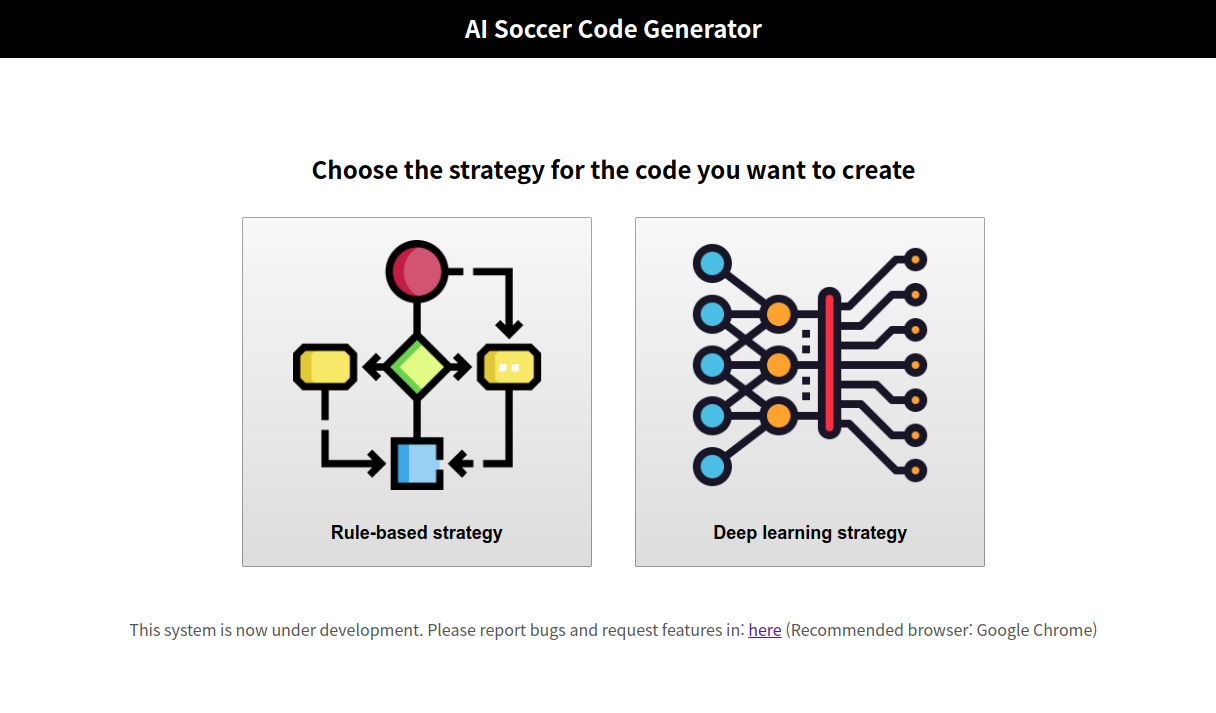
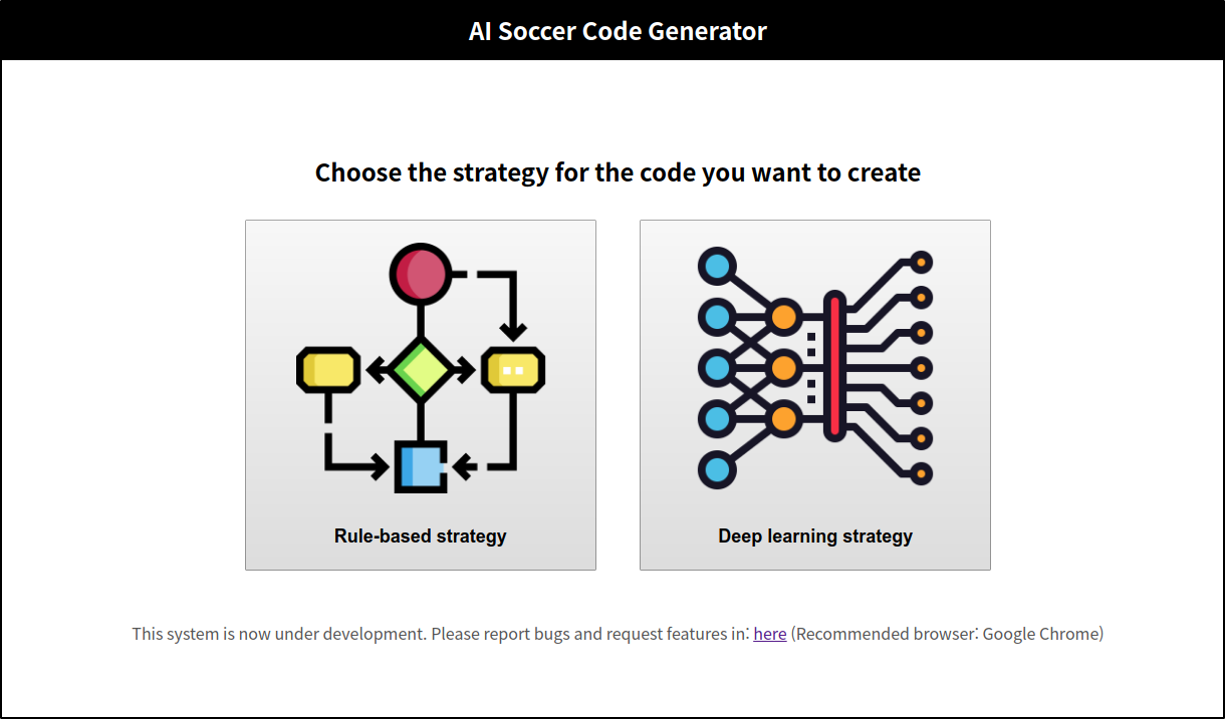
align images

diff --git a/template-readmes/README.html b/template-readmes/README.html
@@ -12,33 +12,51 @@
                 AI Soccer is a 5:5 robot soccer game where each participant develops an algorithm with the objective of defeating the opponent's algorithm by controlling 5 robots in the team. <br>
                 The player program can control the robot by determining the wheel velocities and kick/jump mechanism actions to be performed based on the robots coordinates and orientation, the ball coordinates, or/and the game image.
             </p>
+            <figure style="text-align: center; margin-left: auto; margin-right:auto; margin-top: 15px; margin-bottom: 15px; display:block;">
+                <img src="../img/field_information_3d.png" width=40%; height:auto;>
+                <!-- <figcaption><b>Fig 1. AI Soccer</b></figcaption> -->
+            </figure>
             <p>
                 AI Soccer Code Generator is web-based, visual programming editor for AI Soccer based on Google Blockly. By using this tool, users can participate in AI Soccer without deep background of programming and deep learning. <br>
                 AI Soccer Code Generator helps you make your own strategy with rule-based system and deep learning system. You may choose one of the system that you want.
             </p>
-            <img src="images/mainpage.png" alt="AI Soccer Code Generator main page">
+            <figure style="text-align: center; margin-left: auto; margin-right:auto; margin-top: 15px; margin-bottom: 15px; display:block;">
+                <img src="images/mainpage.png" width=40%; height:auto;>
+                <!-- <figcaption><b>Fig 2. AI Soccer Code Generator</b></figcaption> -->
+            </figure>
         <hr>
         <h2>Rule-based System</h2>
             <p>
                 For rule-based system, you need to define proper actions of 5 robots. You will use the block-coding system instead of writing the python code directly. The basic template can be seen next.<br>
-                <img src="images/rulebasedtemplate.png" alt="Rule based basic template"> <br>
+                <figure style="text-align: center; margin-left: auto; margin-right:auto; margin-top: 15px; margin-bottom: 15px; display:block;">
+                    <img src="images/rulebasedtemplate.png" alt="Rule based basic template" width=50%; height:auto;> <br>
+                    <!-- <figcaption><b>Fig 3. Template for rule-based system</b></figcaption> -->
+                </figure>
                 Now the default code for each robot is to define actions for that robot based on the position of the ball. There are many categories in the left side. Below is the description for each category. <br>
                 <p>
                     <b>Environment indices</b> category contains indices of game status, and ball. <br>
                 </p>
-                <img src="images/environmentindices.png" alt="Environment indices"> <br>
+                <figure style="text-align: center; margin-left: auto; margin-right:auto; margin-top: 15px; margin-bottom: 15px; display:block;">
+                    <img src="images/environmentindices.png" alt="Environment indices">
+                </figure>
                 <p>
                     <b>Environment constants</b> category contains the variables that does not change over time. This includes field, goal, penalty area, goal area, robot size, and max linear velocity. <br>
                 </p>
-                <img src="images/environmentconstants.png" alt="Environment constants"> <br>
+                <figure style="text-align: center; margin-left: auto; margin-right:auto; margin-top: 15px; margin-bottom: 15px; display:block;">
+                    <img src="images/environmentconstants.png" alt="Environment constants">
+                </figure>
                 <p>
                     <b>Environment variables</b> category contains the variables that changes over time constantly. This includes the position of current ball, predicted ball, current posture of own robot, and current posture of opposite robot. <br>
                 </p>
-                <img src="images/environmentvariables.png" alt="Environment variables"> <br>
+                <figure style="text-align: center; margin-left: auto; margin-right:auto; margin-top: 15px; margin-bottom: 15px; display:block;">
+                    <img src="images/environmentvariables.png" alt="Environment variables">
+                </figure>
                 <p>
                     <b>Environment functions</b> category contains the helper functions that can be used in making your own strategy. The functions includes distance function, radian to degree function, degree to radian function, some functions that can check the position of the ball, get attack angle function, get defense angle function, set wheel velocity function, and printConsole function that can be used in debugging. <br>
                 </p>
-                <img src="images/environmentfunctions.png" alt="Environment functions"> <br>
+                <figure style="text-align: center; margin-left: auto; margin-right:auto; margin-top: 15px; margin-bottom: 15px; display:block;">
+                    <img src="images/environmentfunctions.png" alt="Environment functions">
+                </figure>
                 <p>
                     <b>Logic</b> category contains if-else(or if-elif-else) statement, comparison statement, and/or statement, not statement, and boolean statement. <br>
                     <b>Loops</b> category contains for loop and while loop. <br>
@@ -55,14 +73,16 @@
                     4. 'jump': if set to true performs a jump move <br>
                     Example of using these flags can be seen in the F2 robot example code.
                 </p>
-                <img src="images/shootactions.png" alt="Shoot and jump actions"> <br>
+                <figure style="text-align: center; margin-left: auto; margin-right:auto; margin-top: 15px; margin-bottom: 15px; display:block;">
+                    <img src="images/shootactions.png" alt="Shoot and jump actions">
+                </figure>
             </p>
             <p>
-                After making your code for all robots, you can download files by clicking <b>Generate Code</b> button. The files include python files related to your strategy and some low-level functions used to run AI Soccer. <br>
-                Then you need to unzip the compressed file and move it into test_world-develop/examples folder (or the folder that you implemented your previous strategy). <br>
-                Open Webots simulator and in the "config.json file" change "executable" for team_a or team_b as "examples/mystrategy/main.py".
+                After making your code for all robots, you can download files by clicking <b>Generate Code</b> button. The files include python files related to your strategy and some low-level functions used to run AI Soccer. Then you need to unzip the compressed file and move it into test_world-develop/examples folder (or the folder that you implemented your previous strategy). Open Webots simulator and in the "config.json file" change "executable" for team_a or team_b as "examples/mystrategy/main.py".
             </p>
-            <img src="images/config.png" alt="The file config.json"> <br>
+            <figure style="text-align: center; margin-left: auto; margin-right:auto; margin-top: 15px; margin-bottom: 15px; display:block;">
+                <img src="images/config.png" alt="The file config.json" width=40%>
+            </figure>
         <hr>
         <h2>Deep Learning System</h2>
             <p>
@@ -74,7 +94,9 @@
                 For deep learning system, the same RL framework combined with deep learning can be used to develop strategy algorithms. The AI Soccer, similar to the Atari problem, can be interpreted as shown in the next figure. <br>
                 In this case, based on the the robot coordinates and orientation, the player should decide the robots wheel velocities and kick and jump mechanism values. Different algorithms can be used to map the state information to the action chosen at each timestep depending if you want to train one or multiple robot soccer agents. <br>
             </p>
-            <img src="images/rlframework.png" alt="The file config.json"> <br>
+            <figure style="text-align: center; margin-left: auto; margin-right:auto; margin-top: 15px; margin-bottom: 15px; display:block;">
+                <img src="images/rlframework.png" alt="The file config.json" width=50%>
+            </figure>
             <p>
                 To model the <b>state</b>, the following options are available at the current version of the system: <br>
                 1. <b>Relative position</b>: relative position of the active robot in relation to the ball position, active robot orientation, and orientation error in relation to the ball position. <br> 
@@ -101,32 +123,38 @@
                 <b>The DQN Algorithm</b>: In 2015, DQN beat human experts in many Atari games. In this example, we will teach one robot soccer agent to the simple task of chasing the ball. 
                 In the DQN algorithm, a neural network tries to predict how good is taking an action at a particular game state. So, it assigns a value, called Q-value, over the benefit of taking that action. The value of taking an action at a particular state is modeled by the rewards receiving in the future after taking that action. The DQN algorithm is implemented in the ‘dqn.py’ file. <br>
             </p>
-            <img src="images/dqnalgorithm.png" alt="Image source: https://blogs.oracle.com/datascience/reinforcement-learning-deep-q-networks"> <br>
+            <figure style="text-align: center; margin-left: auto; margin-right:auto; margin-top: 15px; margin-bottom: 15px; display:block;">
+                <img src="images/dqnalgorithm.png" alt="Image source: https://blogs.oracle.com/datascience/reinforcement-learning-deep-q-networks" height=250px>
+            </figure>
             <p>
                 <b>The DDPG Algorithm</b>: The DDPG is a famous continuous control reinforcement learning algorithm. The main difference in DDPG to DQN is the ability to handle continues values for the actions, while in the DQN example we discretized the robot to have just 7 actions. 
                 In this example, we will also teach one robot soccer agent to the simple task of chasing the ball. In the DDPG algorithm, two networks are presented: an actor and a critic network. The actor network is responsible to choose the action based on the current game state. 
                 The critic network is responsible to evaluate taking that action at that state. So, it assigns a value over the benefit of taking that action in that state. The value of taking an action at a particular state is modeled by the rewards receiving in the future after taking that action. 
                 The DDPG algorithm is implemented in the ‘ddpg.py’ file. <br>
             </p>
-            <img src="images/ddpgalgorithm.png" alt="Image source: Reinforcement learning with Python by Sudharsan Ravichandiran"> <br>
+            <figure style="text-align: center; margin-left: auto; margin-right:auto; margin-top: 15px; margin-bottom: 15px; display:block;">
+                <img src="images/ddpgalgorithm.png" alt="Image source: Reinforcement learning with Python by Sudharsan Ravichandiran" width=45%>
+            </figure>
             <p>
                 <b>The IQL Algorithm</b>: The IQL algorithm is a simple extension of the DQL algorithm for the multi-agent scenation. In this case, there exists one network trained to each agent and one reward function to each agent. 
                 So that, each agent can learn a different role based on its own reward function. One advantage of the IQL is that it is easy to learn and the DQN framework can be followed for training. However, in a multi-agent environment, such as in AI Soccer, the IQL has a major drawback as it does not consider the actions of other agents while taking the decision. 
                 This way, cooperative behavior using IQL is not encouraged and it is not clear if the reward received by the robot is because of his own actions or because of the actions of other robots. <br>
             </p>
-            <img src="images/iqlalgorithm.jpg" alt="Image Source: https://livebook.manning.com/book/deep-reinforcement-learning-in-action/chapter-9/section-9-4?origin=product-toc"> <br>
+            <figure style="text-align: center; margin-left: auto; margin-right:auto; margin-top: 15px; margin-bottom: 15px; display:block;">
+                <img src="images/iqlalgorithm.jpg" alt="Image Source: https://livebook.manning.com/book/deep-reinforcement-learning-in-action/chapter-9/section-9-4?origin=product-toc" width=30%>
+            </figure>
             <p>
                 <b>The QMIX Algorithm</b>: The QMIX algorithm tries to solve the drawback of IQL to achieve cooperative behavior by adding a network called mixer that tries to learn the contribution of each robot to the final reward. In this case, there exists one actor network trained to each agent to choose an action based on the current game state. 
                 If more than one agent contributes to the final reward, the output of each actor network of these agents is the input to the mixer network to learn their contributions to the final rewards. The global state of the game is also an input to the mixer network to help learn this contribution. 
                 This way, the reward is rightly assigned for the robots and cooperative behavior can also be encouraged as all agents need to maximize the same reward. Compared to the other frameworks learned until now in this manual, using QMIX there exists 2 types of states. The normal state is the input for the robot actor network, and is related to his view of the game state. 
                 The global state is one of the input of the mixing network and show the full global game state. <br>
             </p>
-            <img src="images/qmixalgorithm.png" alt="Image Source: QMIX paper"> <br>
+            <figure style="text-align: center; margin-left: auto; margin-right:auto; margin-top: 15px; margin-bottom: 15px; display:block;">
+                <img src="images/qmixalgorithm.png" alt="Image Source: QMIX paper" width=20%>
+            </figure>
             <p>
-                After choosing the conditions for reinforcement learning, you can also download files by clicking <b>Generate Code</b> button. The files include python files include python files related to your model, parameters, and some low-level functions used to run AI Soccer with deep-learning. <br>
-                Then you need to unzip the compressed file and move it into test_world-develop/examples folder (or the folder that you implemented your previous strategy). <br>
-                Open Webots simulator and in the "config.json file"change "executable" for team_a or team_b as "examples/mystrategy/train.py". <br> 
-                To use your trained model, in the "config.json file"change "executable" for team_a or team_b as "examples/mystrategy/play.py".<br>
+                After choosing the conditions for reinforcement learning, you can also download files by clicking <b>Generate Code</b> button. The files include python files include python files related to your model, parameters, and some low-level functions used to run AI Soccer with deep-learning. Then you need to unzip the compressed file and move it into test_world-develop/examples folder (or the folder that you implemented your previous strategy). <br>
+                Open Webots simulator and in the "config.json file"change "executable" for team_a or team_b as "examples/mystrategy/train.py". To use your trained model, in the "config.json file"change "executable" for team_a or team_b as "examples/mystrategy/play.py".<br> <br>
             </p>
 </body>
 </html>
